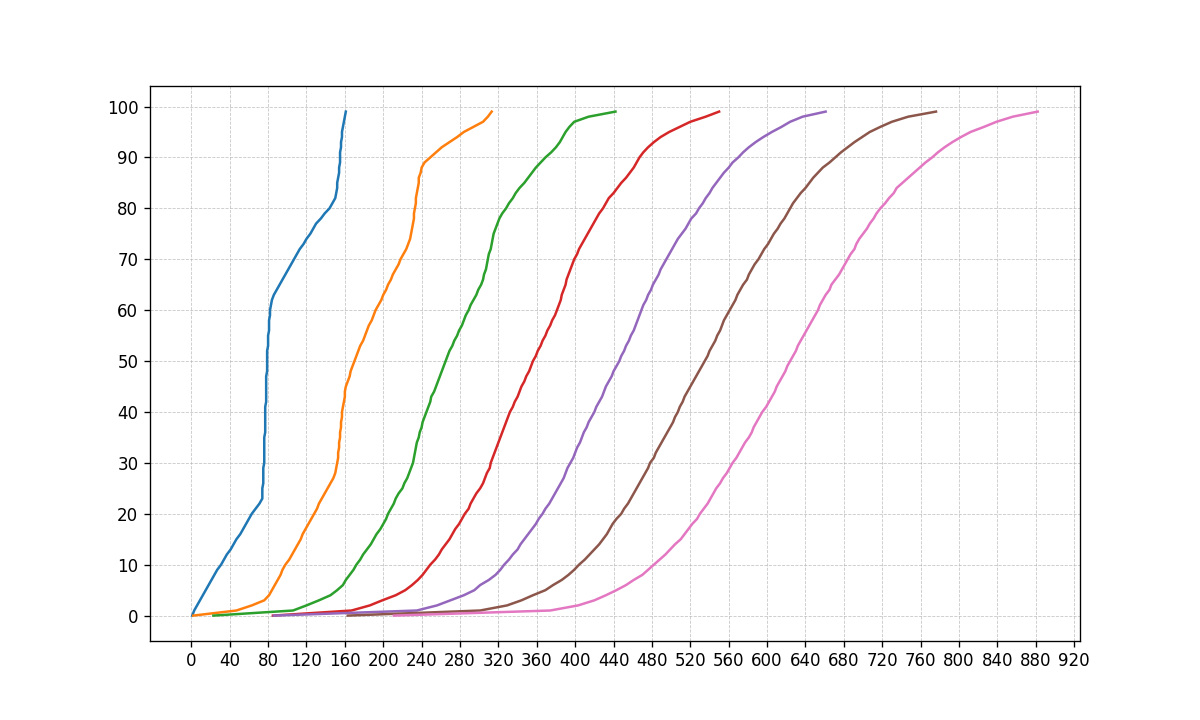
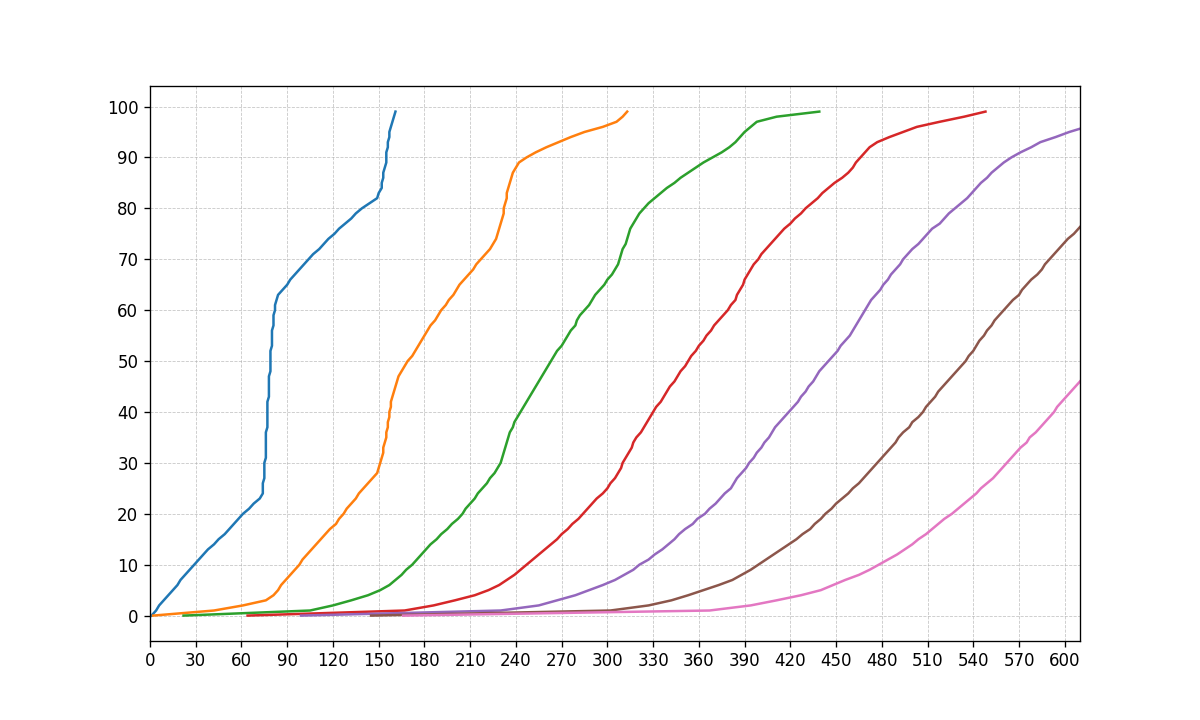
Graph cuts off at number of pulls entered

diff --git a/my-app/src/App.js b/my-app/src/App.js
@@ -2,10 +2,12 @@ import React, { useState } from 'react';
 
 const PlotComponent = () => {
   const [copies, setCopies] = useState("7");
+  const [pulls, setPulls] = useState("0");
   const [plotUrl, setPlotUrl] = useState("");
+  const [chance, setChance] = useState('0');
 
   const handleSubmit = () => {
-    const url = `http://localhost:5000/simulate/${copies}`;
+    const url = `http://localhost:5000/simulate/${copies}/${pulls}`;
     setPlotUrl(url);
   };
 
@@ -16,6 +18,11 @@ const PlotComponent = () => {
         <label>Copies: </label>
         <input type="text" value={copies} onChange={e => setCopies(e.target.value)} />
       </div>
+      <div>
+        <label>Pulls: </label>
+        <input type="text" value={pulls} onChange={e => setPulls(e.target.value)} />
+      </div>
+      <div><label>Chance: {chance}</label></div>
       <button onClick={handleSubmit}>Generate Plot</button>
 
       {plotUrl && (

diff --git a/plotter.py b/plotter.py
@@ -4,19 +4,28 @@ import matplotlib.pyplot as plt
 import math
 from simulation import *
 
-def createPlot(copies):
-    out = simulateMany(copies)
+def createPlot(copies, pulls):
+    out = simulateMany(7)
+    chance = 0
 
     plt.figure(figsize=(10, 6), dpi=120)
-    plt.xticks(range(0, out[-1][-1], 10 * math.ceil(copies/2)))
+    plt.xticks(range(0, pulls+1, 5 * math.ceil(pulls//100)))
     plt.yticks(range(0, 110, 10))
-    for x in range(copies):
-        chances = list((out[x][i-1], i//(100)) for i in range(1, 10001, 100))
+    for z in range(copies):
+        chances = list((out[z][i-1], i//(100)) for i in range(1, 10001, 100))
+        if (z == copies-1):
+            for (a, b) in chances:
+                if a > pulls:
+                    chance = b
+                    break
         x, y = zip(*chances)
         plt.plot(x, y)
 
     plt.grid(True, which='both', linestyle='--', linewidth=0.5, alpha=0.7)
+    plt.xlim(left=0)
+    plt.xlim(xmax=pulls+10)
     plt.savefig("plot.png")
     plt.close()
+    return chance
 
-createPlot(7)
+createPlot(7, 600)

diff --git a/app.py b/app.py
@@ -5,10 +5,10 @@ from flask_cors import CORS
 app = Flask(__name__)
 CORS(app)
 
-@app.route('/simulate/<int:copies>', methods=['GET'])
-def simulate(copies) -> Response:
+@app.route('/simulate/<int:copies>/<int:pulls>', methods=['GET'])
+def simulate(copies, pulls) -> Response:
     try:
-        createPlot(copies)
+        chance = createPlot(copies, pulls)
         return send_file('plot.png', mimetype='image/png')
     except Exception as e:
         return jsonify({'error': str(e)})
